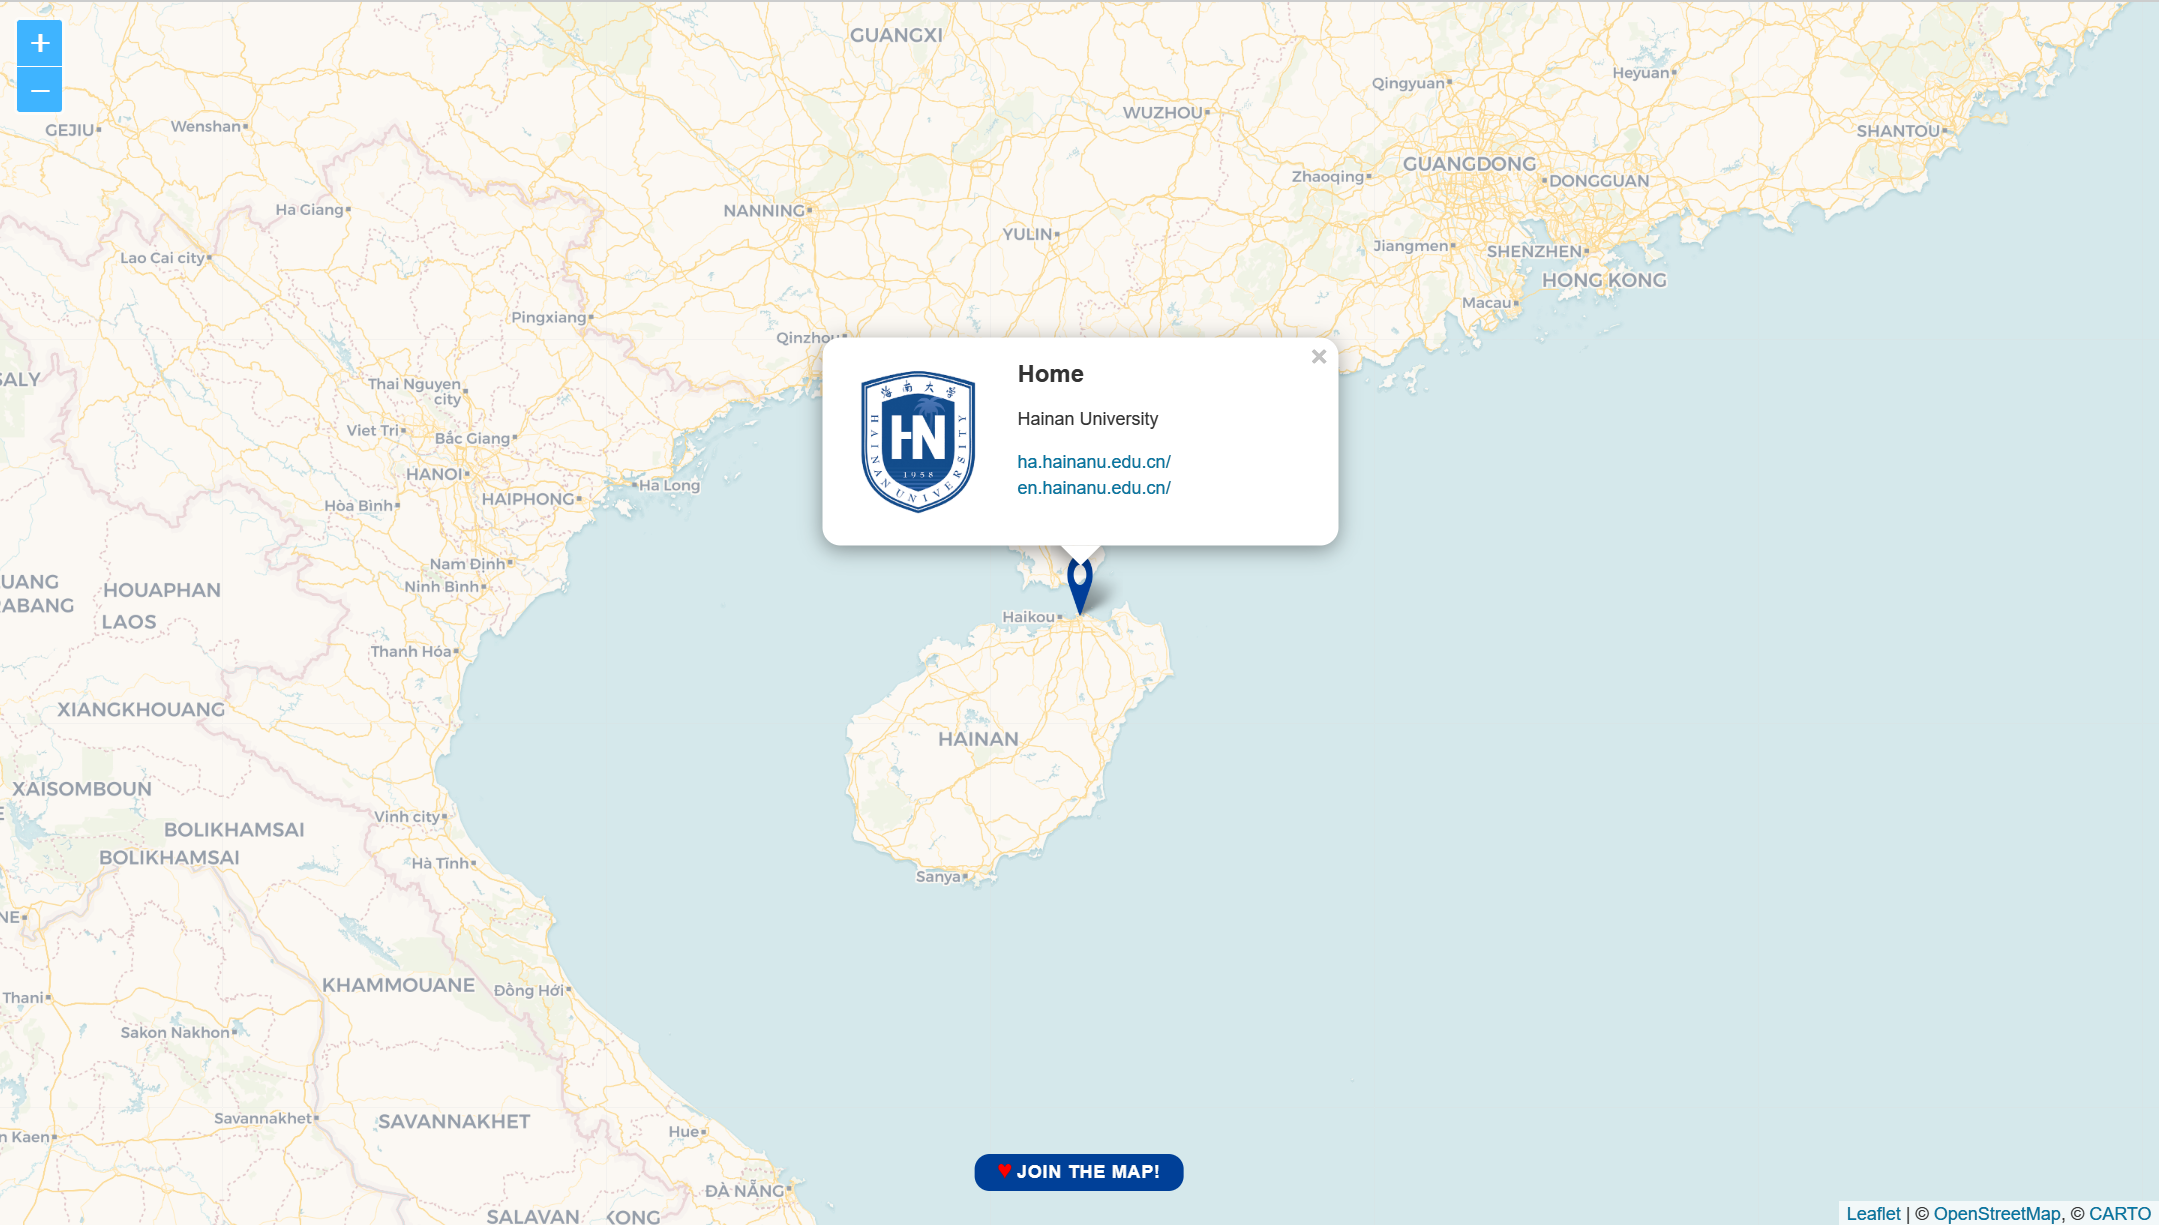
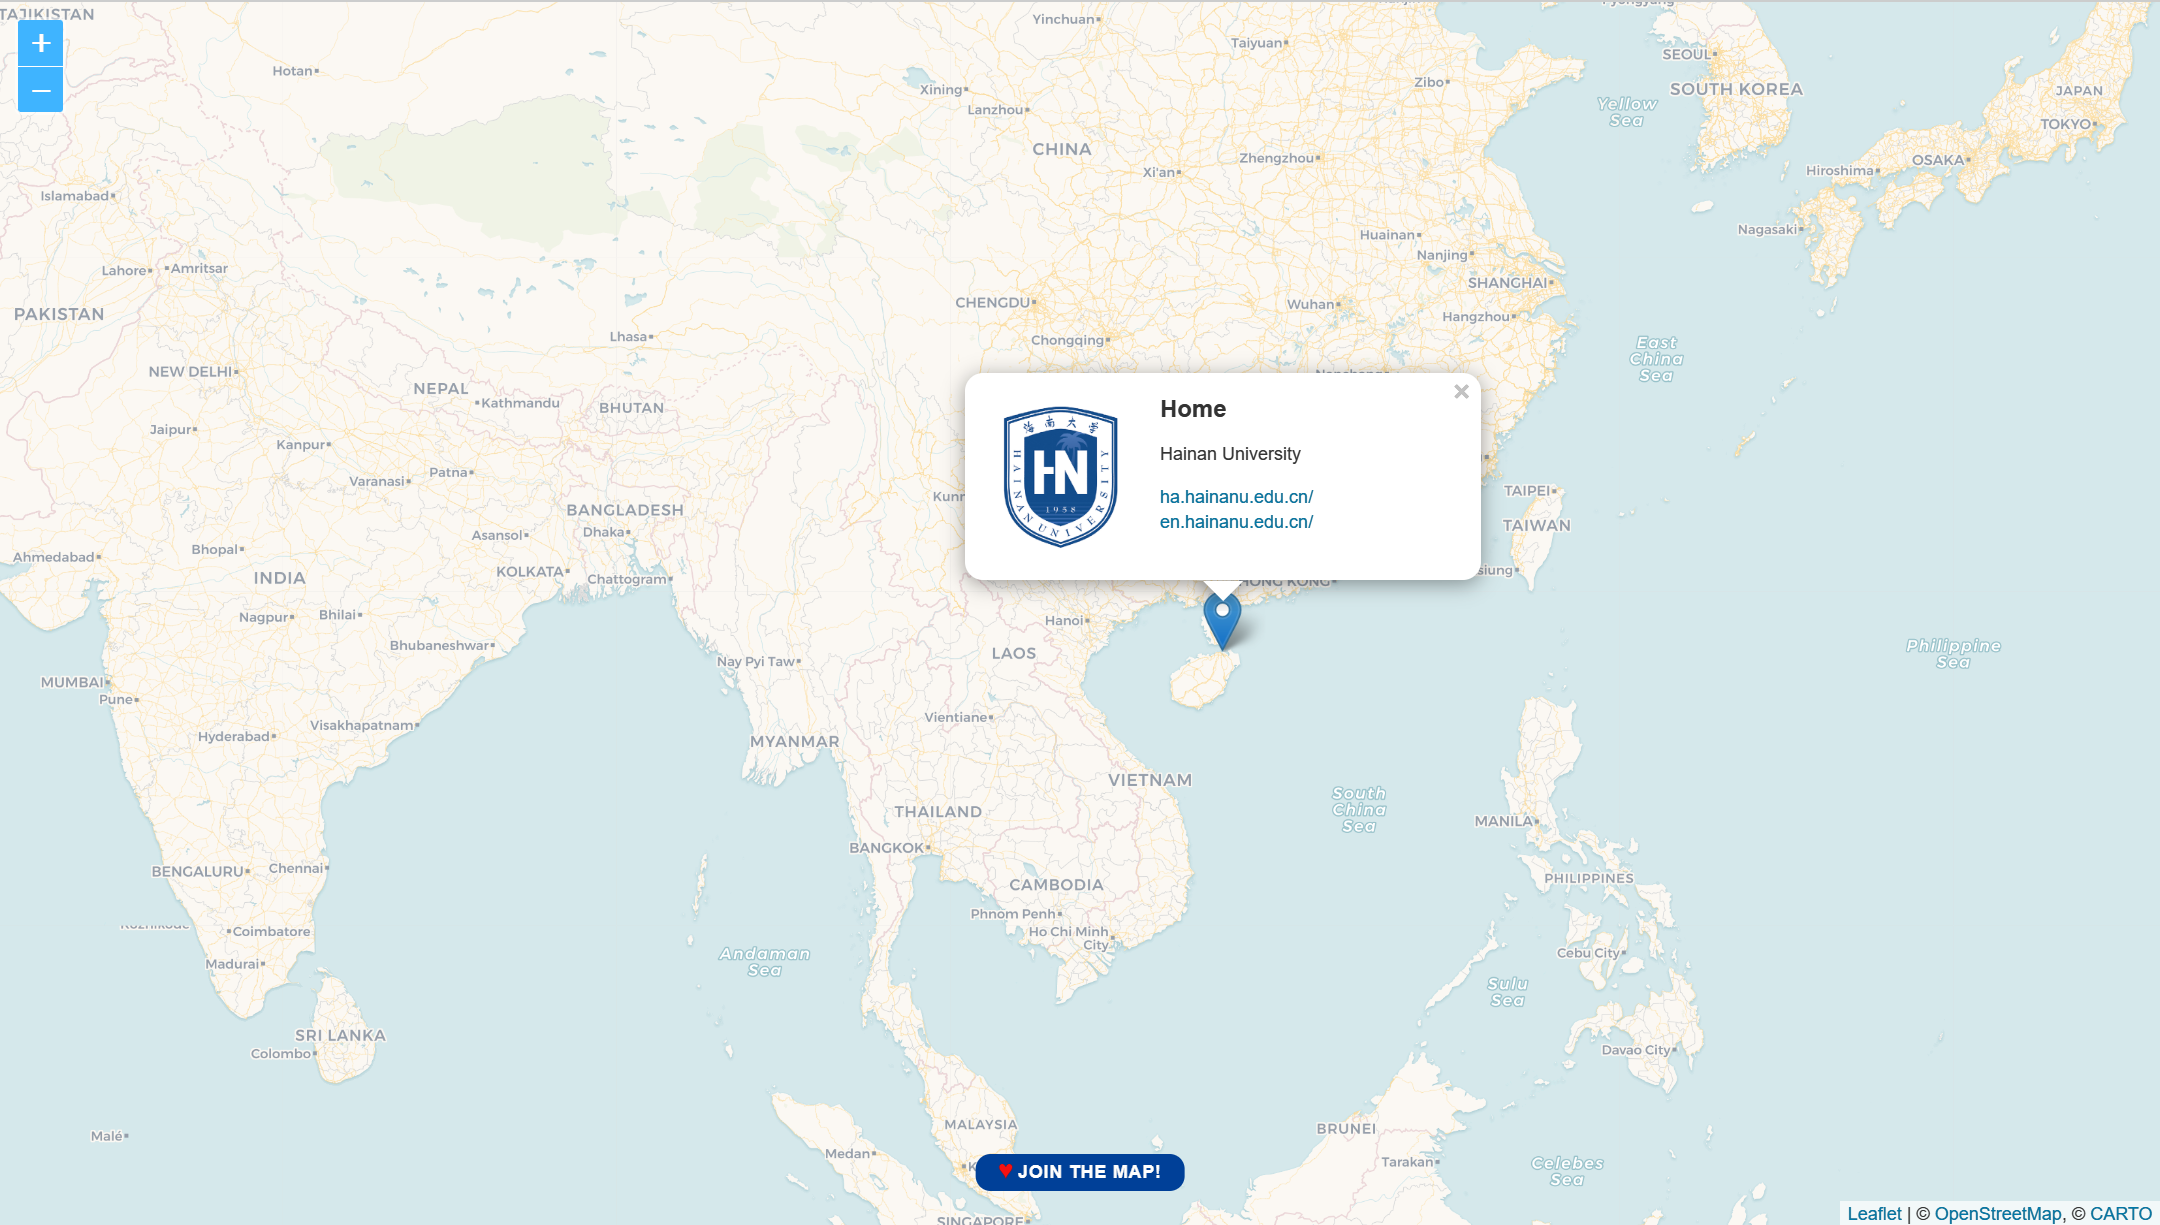
update

diff --git a/index.html b/index.html
@@ -12,8 +12,8 @@ layout: compress
 
     <title>{% if page.title %}{{ page.title | escape }}{% else %}{{ site.title | escape }}{% endif %}</title>
     <meta name="description" content="{{ page.excerpt | default: site.description | strip_html | normalize_whitespace | truncate: 160 | escape }}">
-    <meta name="keywords" content="Hainan University,HainanU,community,cms,people,map,github,leaflet">
-    <meta name="author" content="HainanU-Application">
+    <meta name="keywords" content="Hainan University,Hainanu,community,cms,people,map,github,leaflet">
+    <meta name="author" content="Hainanu-Application">
 
     <!-- styles -->
     <link rel="stylesheet" href="{{ '/assets/vendor/leaflet/leaflet.css' | relative_url }}">
@@ -38,7 +38,7 @@ layout: compress
     <meta property="og:title" content="{% if page.title %}{{ page.title | escape }}{% else %}{{ site.title | escape }}{% endif %}">
     <meta property="og:description" content="{{ page.excerpt | default: site.description | strip_html | normalize_whitespace | truncate: 160 | escape }}">
     <meta property="og:url" content="{{ page.url | absolute_url }}">
-    <meta property="og:image" content="{{ '/icons/SUSTech-Alumni-Map.png' | absolute_url }}">
+    <meta property="og:image" content="{{ '/icons/Hainanu-Alumni-Map.png' | absolute_url }}">
     <meta property="og:locale" content="de_DE">
 
     <!-- JSON LD -->
@@ -51,7 +51,7 @@ layout: compress
             "publisher": "HainanU-Application",
             "url": "{{ page.url | absolute_url }}",
             "description": "{{ page.excerpt | default: site.description | strip_html | normalize_whitespace | truncate: 160 | escape }}",
-            "image": "{{ '/icons/SUSTech-Alumni-Map.png' | absolute_url }}"
+            "image": "{{ '/icons/Hainanu-Alumni-Map.png' | absolute_url }}"
         }
     ]
     </script>

diff --git a/assets/js/script.js b/assets/js/script.js
@@ -93,7 +93,7 @@ document.addEventListener("DOMContentLoaded", function () {
     else {
         // Carto maps (limited to 75.000 requests)
         var mapAttribution = '&copy; <a href="http://www.openstreetmap.org/copyright">OpenStreetMap</a>, &copy; <a href="https://carto.com/attribution">CARTO</a>';
-        var mapUrl = 'https://cartodb-basemaps-{s}.global.ssl.fastly.net/{style}/{z}/{x}/{y}@2x.png';
+        var mapUrl = 'https://{s}.tile.openstreetmap.org/{z}/{x}/{y}@2x.png';
         var tiles = L.tileLayer(mapUrl, {style: 'rastertiles/voyager_labels_under', attribution: mapAttribution});
     }
 
